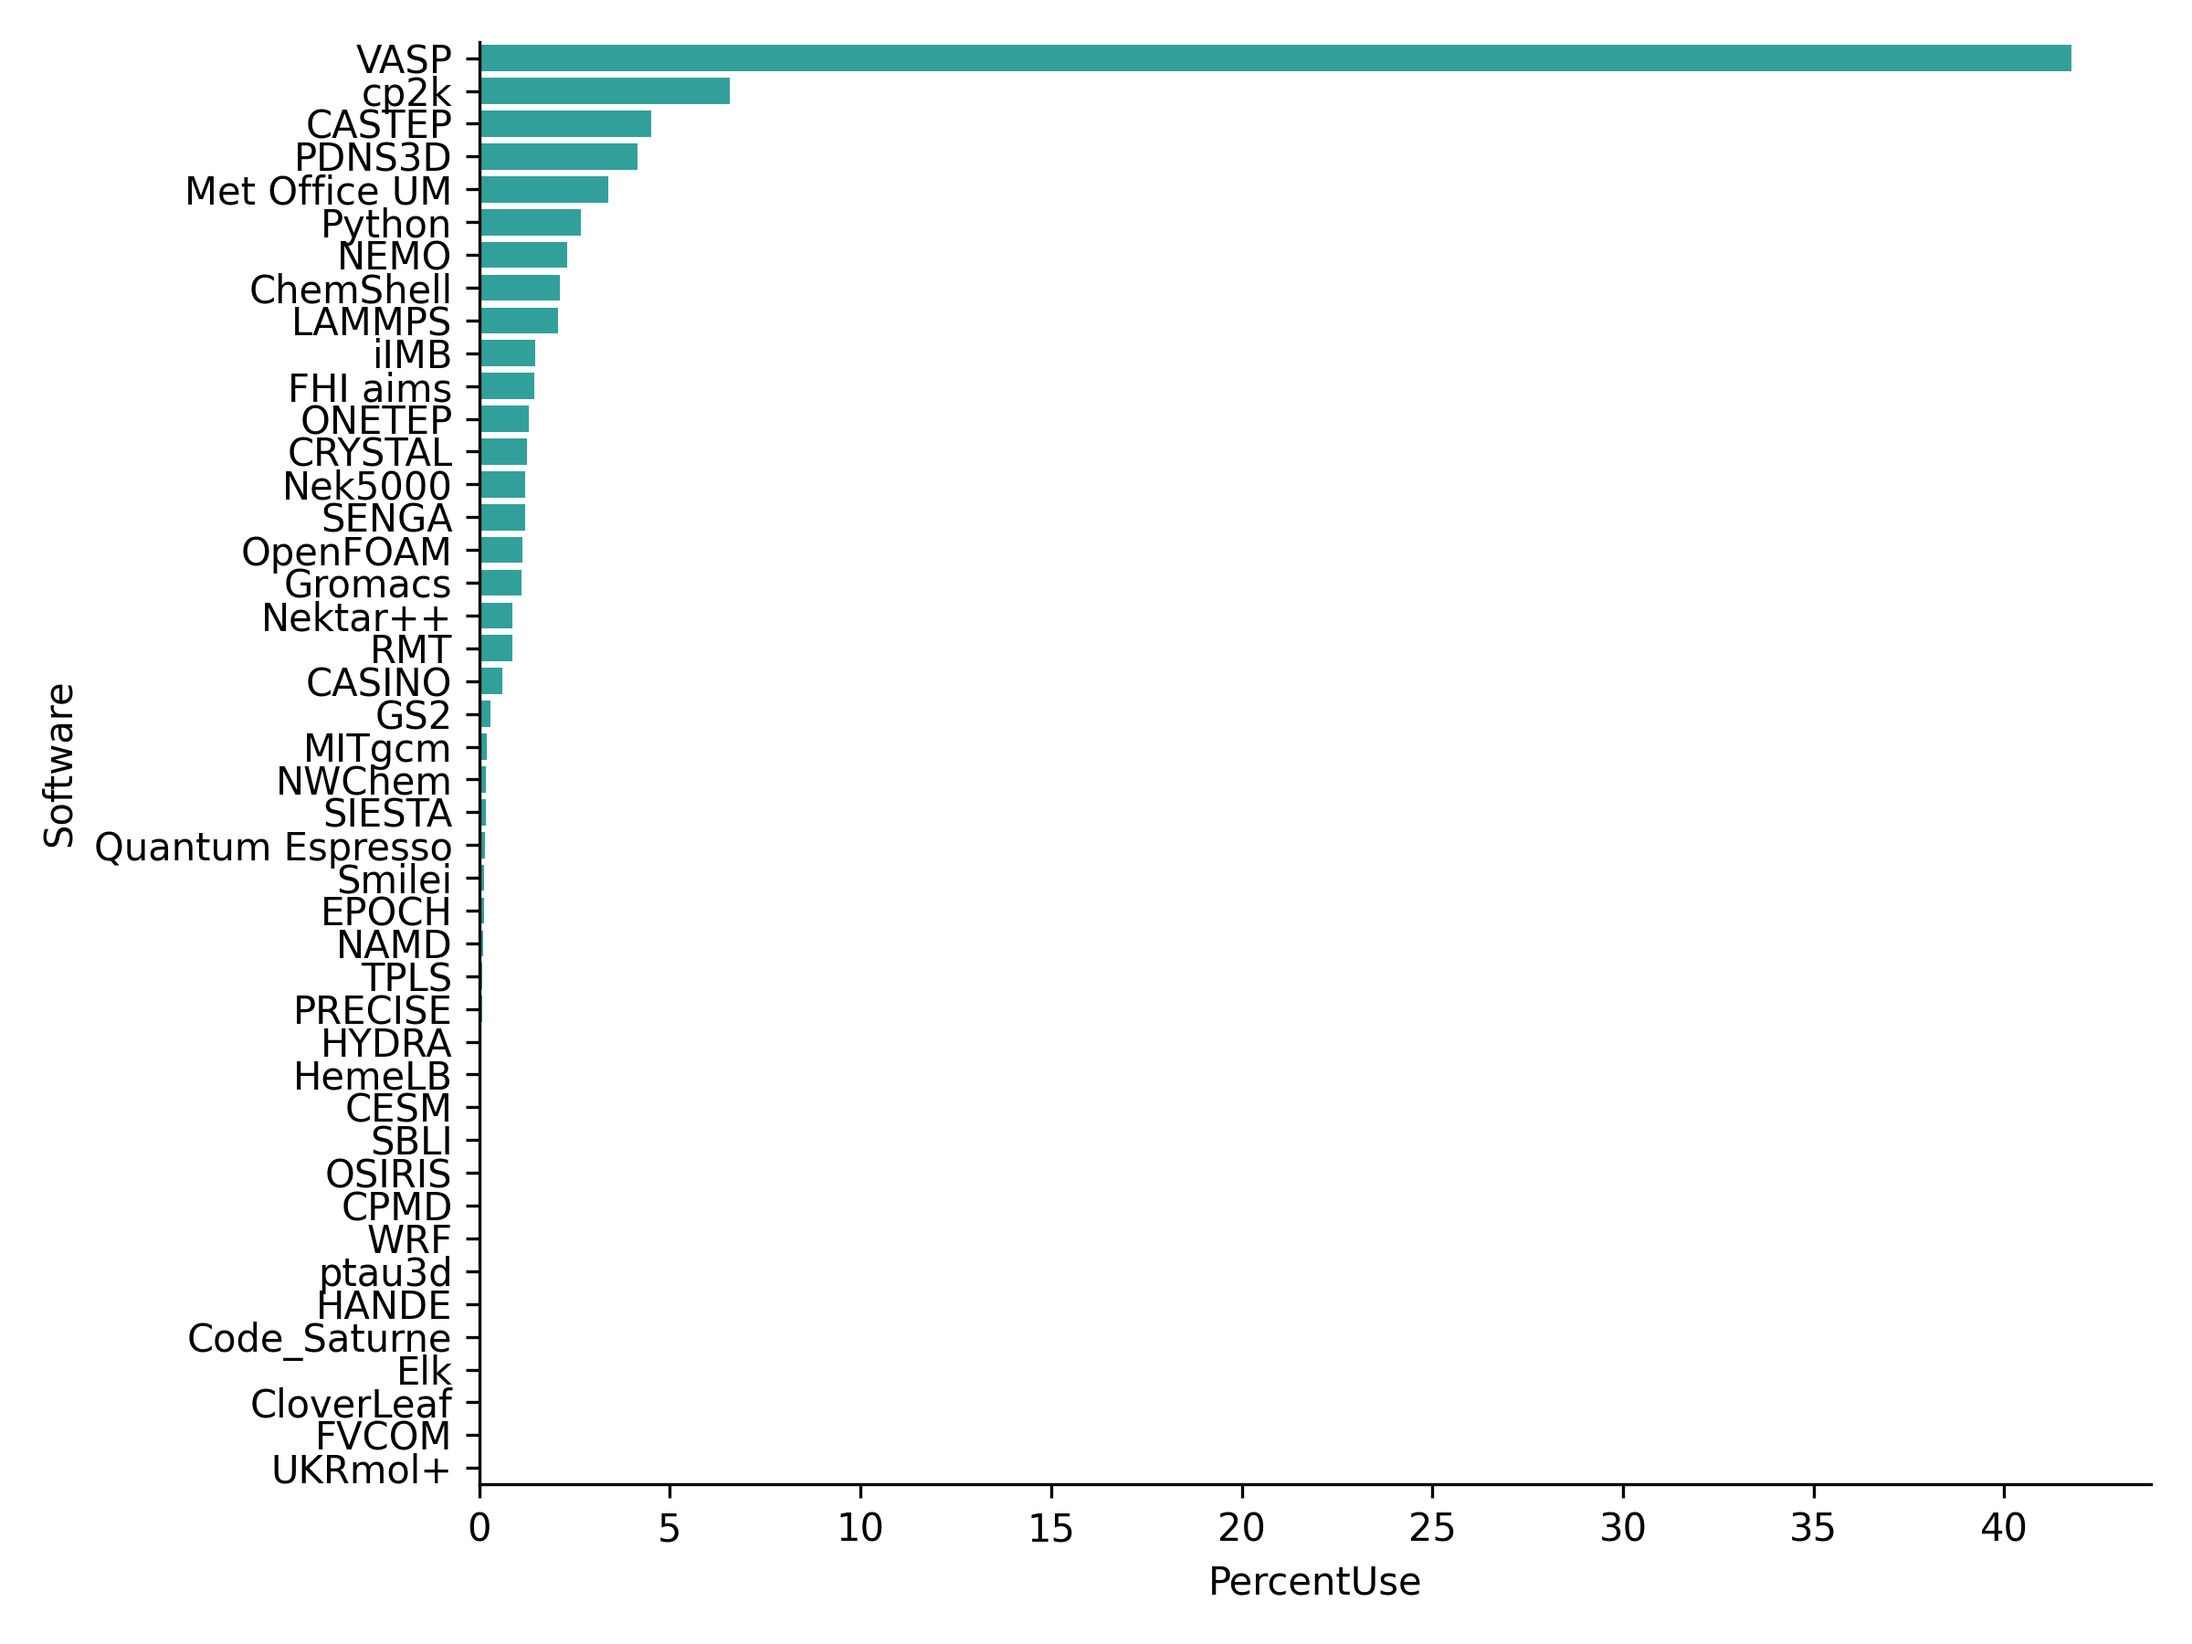
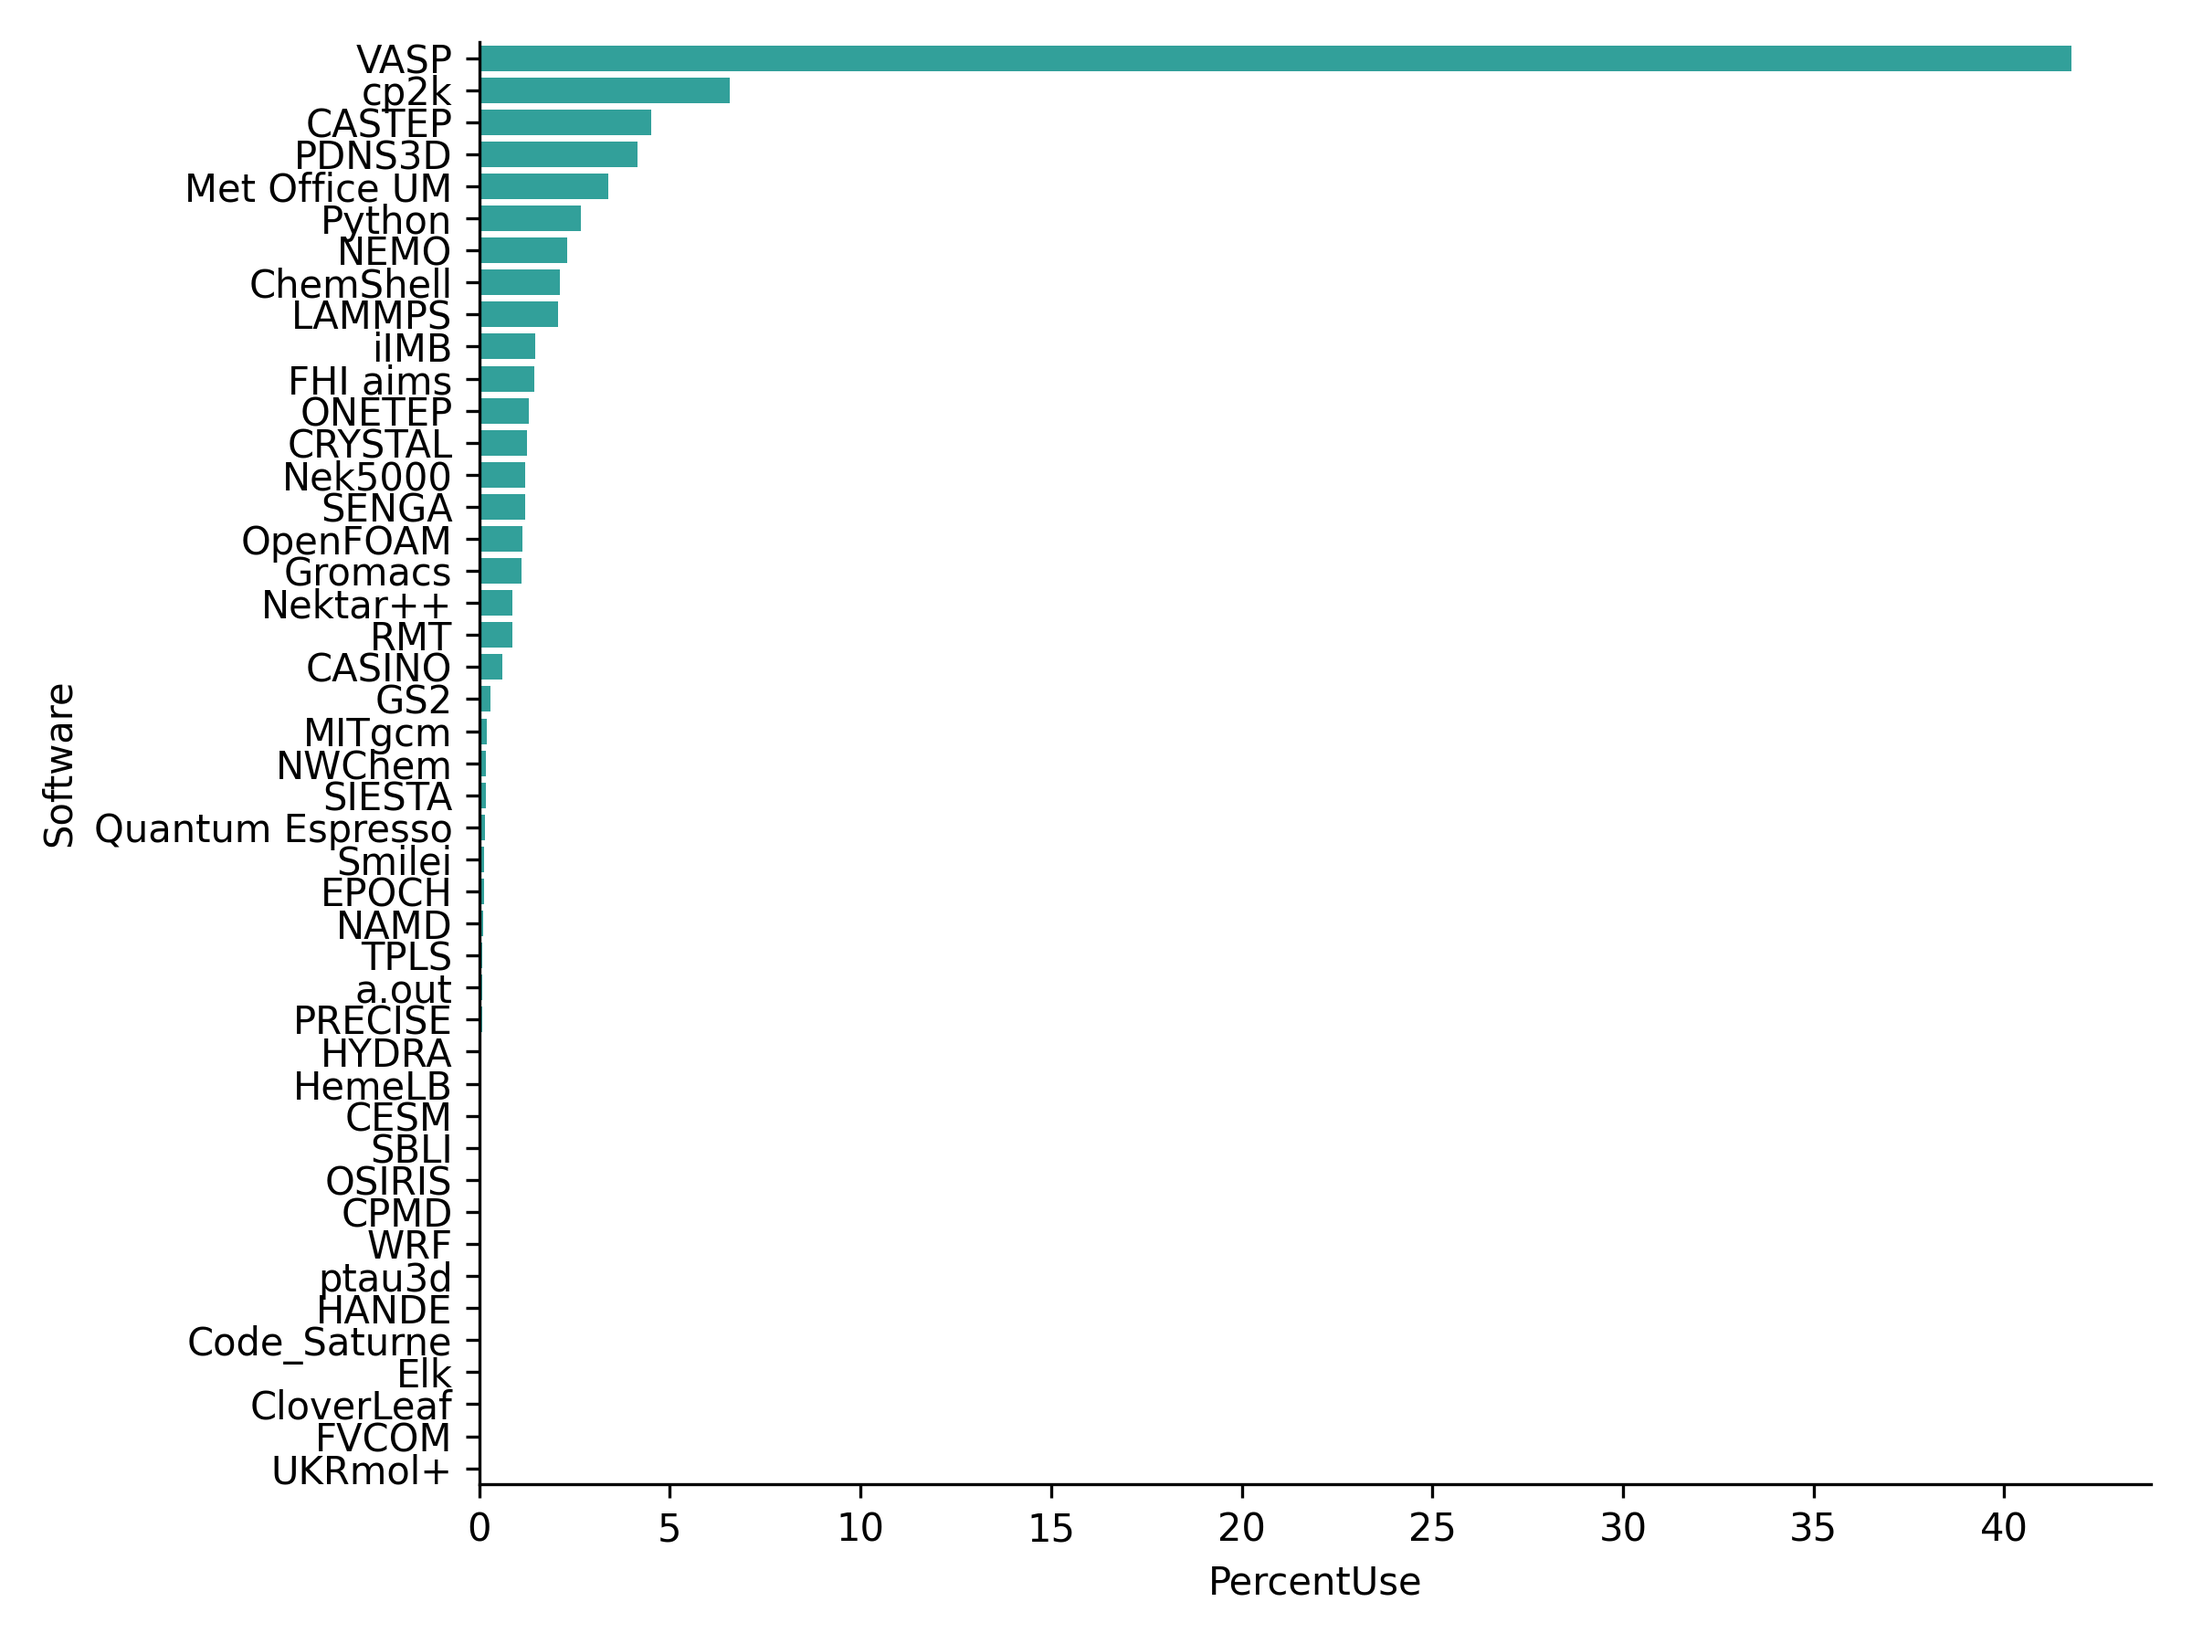
Renamed files correctly

Changed region(s): [[0.0312, 0.0622, 0.2812, 0.9022]]

diff --git a/allusers/2022/01/2022-01_stats_by_usage.md b/allusers/2022/01/2022-01_stats_by_usage.md
@@ -2,7 +2,7 @@
 |:-----------------|------:|--------:|---------:|--------:|-------:|--------:|-------------:|
 | Overall          |     1 |   512.0 |   2560.0 |  8192.0 | 524288 | 1899000 |        100.0 |
 | VASP             |     1 |  1024.0 |   5120.0 |  9728.0 | 131072 |  672066 |         41.8 |
-| Unidentified     |     1 |   768.0 |   1536.0 |  6016.0 | 524288 |  599975 |         16.3 |
+| Unidentified     |     1 |   768.0 |   1536.0 |  6016.0 | 524288 |  599546 |         16.2 |
 | cp2k             |     1 |   160.0 |    640.0 |  1536.0 |   8192 |   13099 |          6.6 |
 | CASTEP           |     1 |   256.0 |   1024.0 |  2560.0 |  12800 |  553684 |          4.5 |
 | PDNS3D           |  3072 |  6400.0 |  32000.0 | 32000.0 |  32000 |      61 |          4.1 |
@@ -31,6 +31,7 @@
 | EPOCH            |   128 |  4096.0 |  16384.0 | 16384.0 |  65536 |     474 |          0.1 |
 | NAMD             |   128 |  1600.0 |   1600.0 |  1600.0 |   1600 |      70 |          0.1 |
 | TPLS             |     1 | 18432.0 |  49152.0 | 49152.0 |  49152 |      71 |          0.1 |
+| a.out            |     1 |   768.0 |    768.0 |   768.0 |   1280 |     429 |          0.1 |
 | PRECISE          |   512 |   768.0 |    768.0 |   768.0 |   3072 |      28 |          0.1 |
 | HYDRA            |     1 |  1024.0 |   2560.0 |  2560.0 |   5120 |      74 |          0.1 |
 | HemeLB           |   128 |   512.0 |    512.0 |   512.0 |   1024 |      52 |          0.0 |

diff --git a/allusers/2022/01/2022-01_stats_by_jobs.md b/allusers/2022/01/2022-01_stats_by_jobs.md
@@ -2,7 +2,7 @@
 |:-----------------|------:|-------:|---------:|--------:|-------:|--------:|-------------:|
 | Overall          |     1 |    1.0 |     16.0 |    32.0 | 524288 | 1899000 |        100.0 |
 | VASP             |     1 |   32.0 |     32.0 |    32.0 | 131072 |  672066 |         41.8 |
-| Unidentified     |     1 |    1.0 |      1.0 |     1.0 | 524288 |  599975 |         16.3 |
+| Unidentified     |     1 |    1.0 |      1.0 |     1.0 | 524288 |  599546 |         16.2 |
 | cp2k             |     1 |    1.0 |      1.0 |   256.0 |   8192 |   13099 |          6.6 |
 | CASTEP           |     1 |   16.0 |     16.0 |    16.0 |  12800 |  553684 |          4.5 |
 | PDNS3D           |  3072 | 3200.0 |   3200.0 | 32000.0 |  32000 |      61 |          4.1 |
@@ -31,6 +31,7 @@
 | EPOCH            |   128 |  256.0 |   2048.0 |  8192.0 |  65536 |     474 |          0.1 |
 | NAMD             |   128 |  256.0 |    512.0 |   512.0 |   1600 |      70 |          0.1 |
 | TPLS             |     1 |  256.0 |   1024.0 |  7168.0 |  49152 |      71 |          0.1 |
+| a.out            |     1 |   32.0 |    128.0 |   496.0 |   1280 |     429 |          0.1 |
 | PRECISE          |   512 |  768.0 |   1024.0 |  1344.0 |   3072 |      28 |          0.1 |
 | HYDRA            |     1 |    1.0 |    128.0 |  1024.0 |   5120 |      74 |          0.1 |
 | HemeLB           |   128 |  128.0 |    128.0 |   160.0 |   1024 |      52 |          0.0 |
